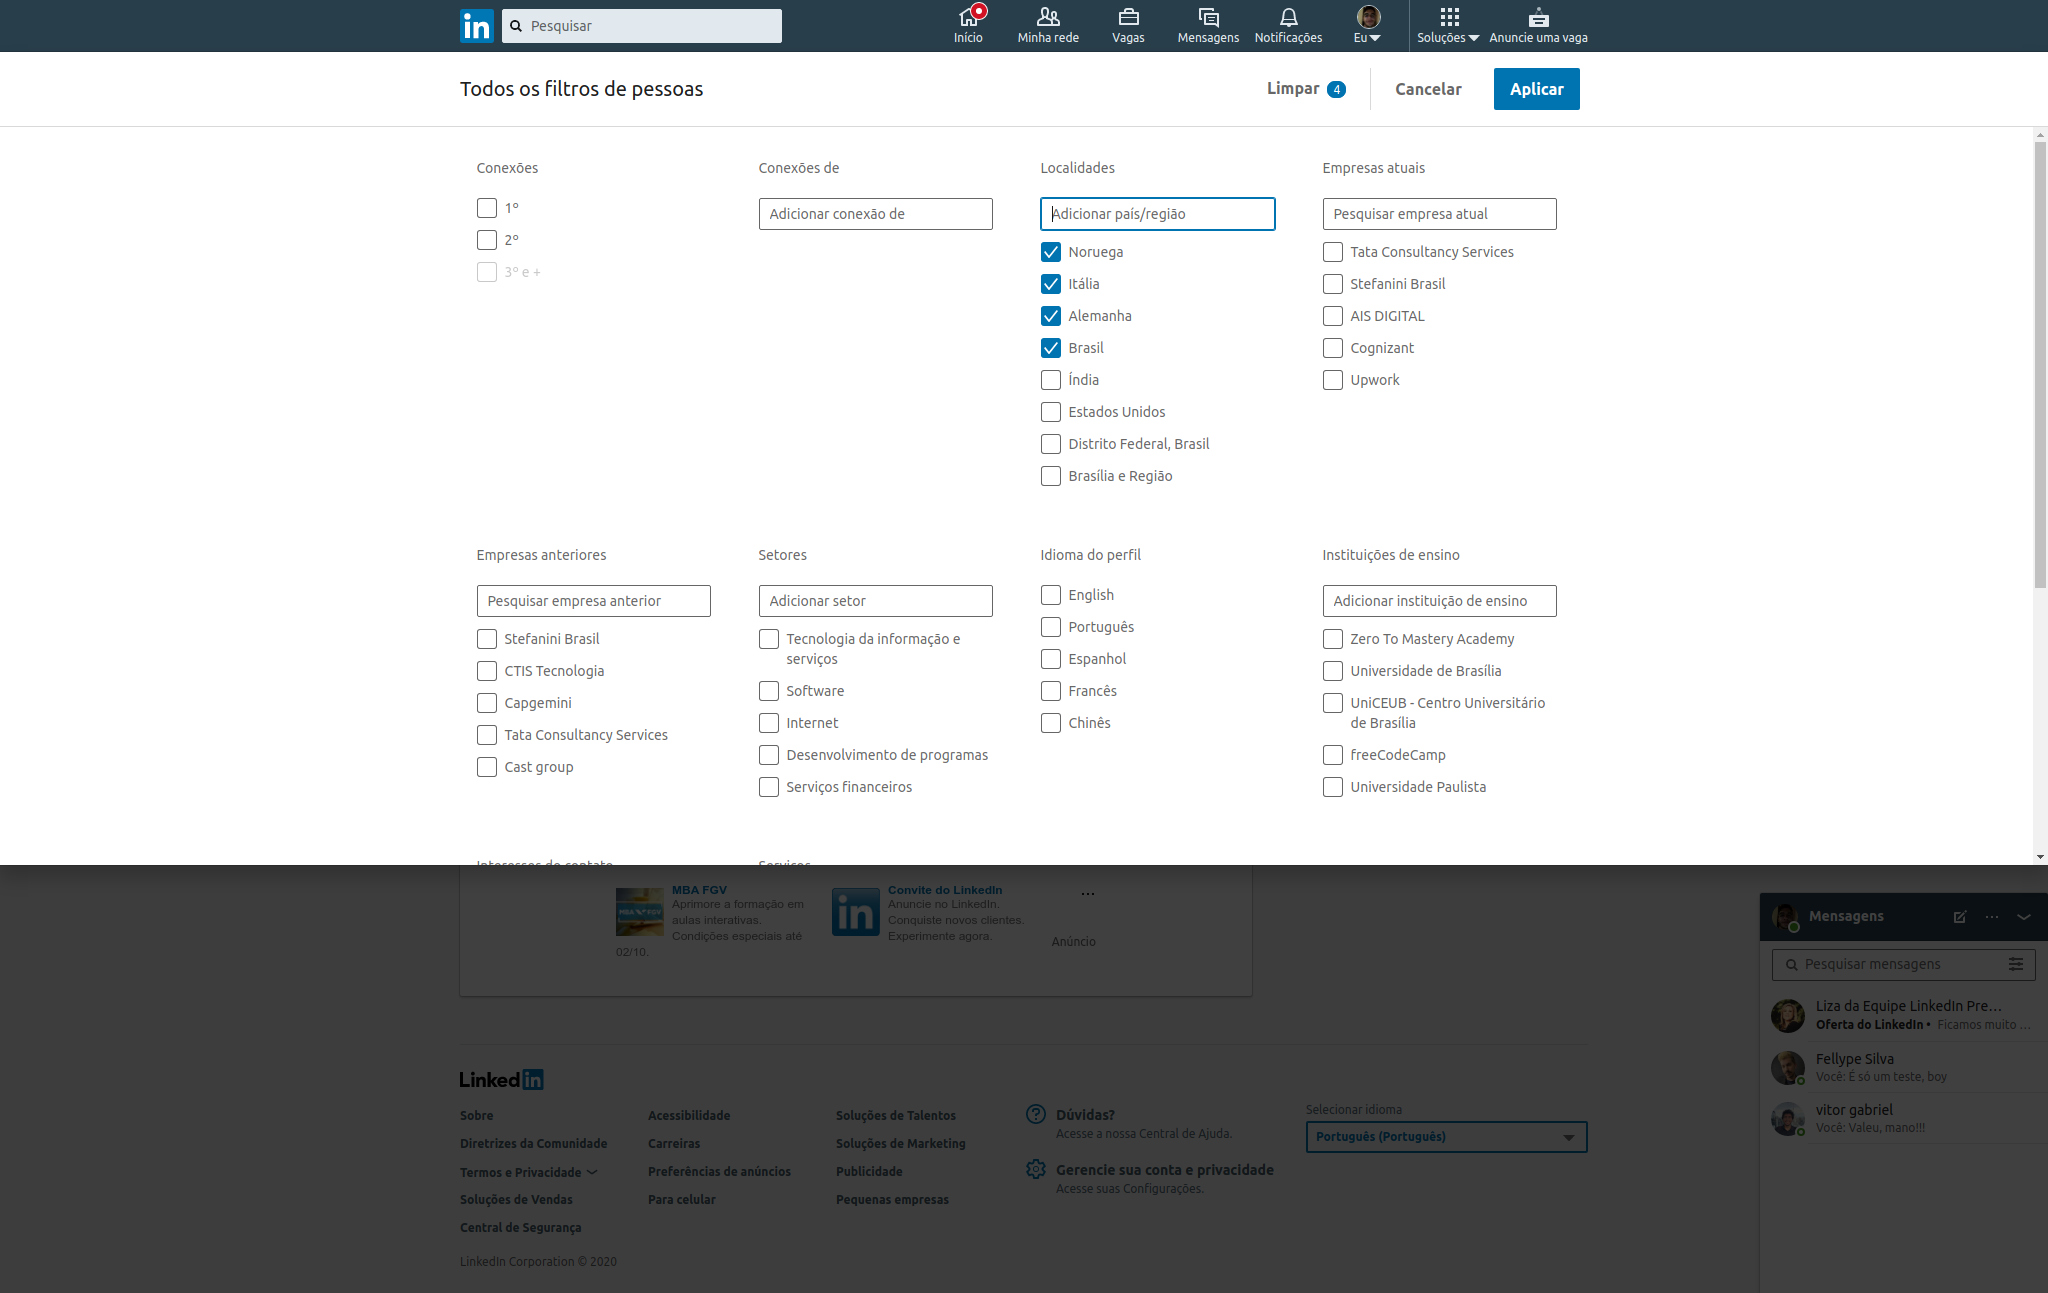
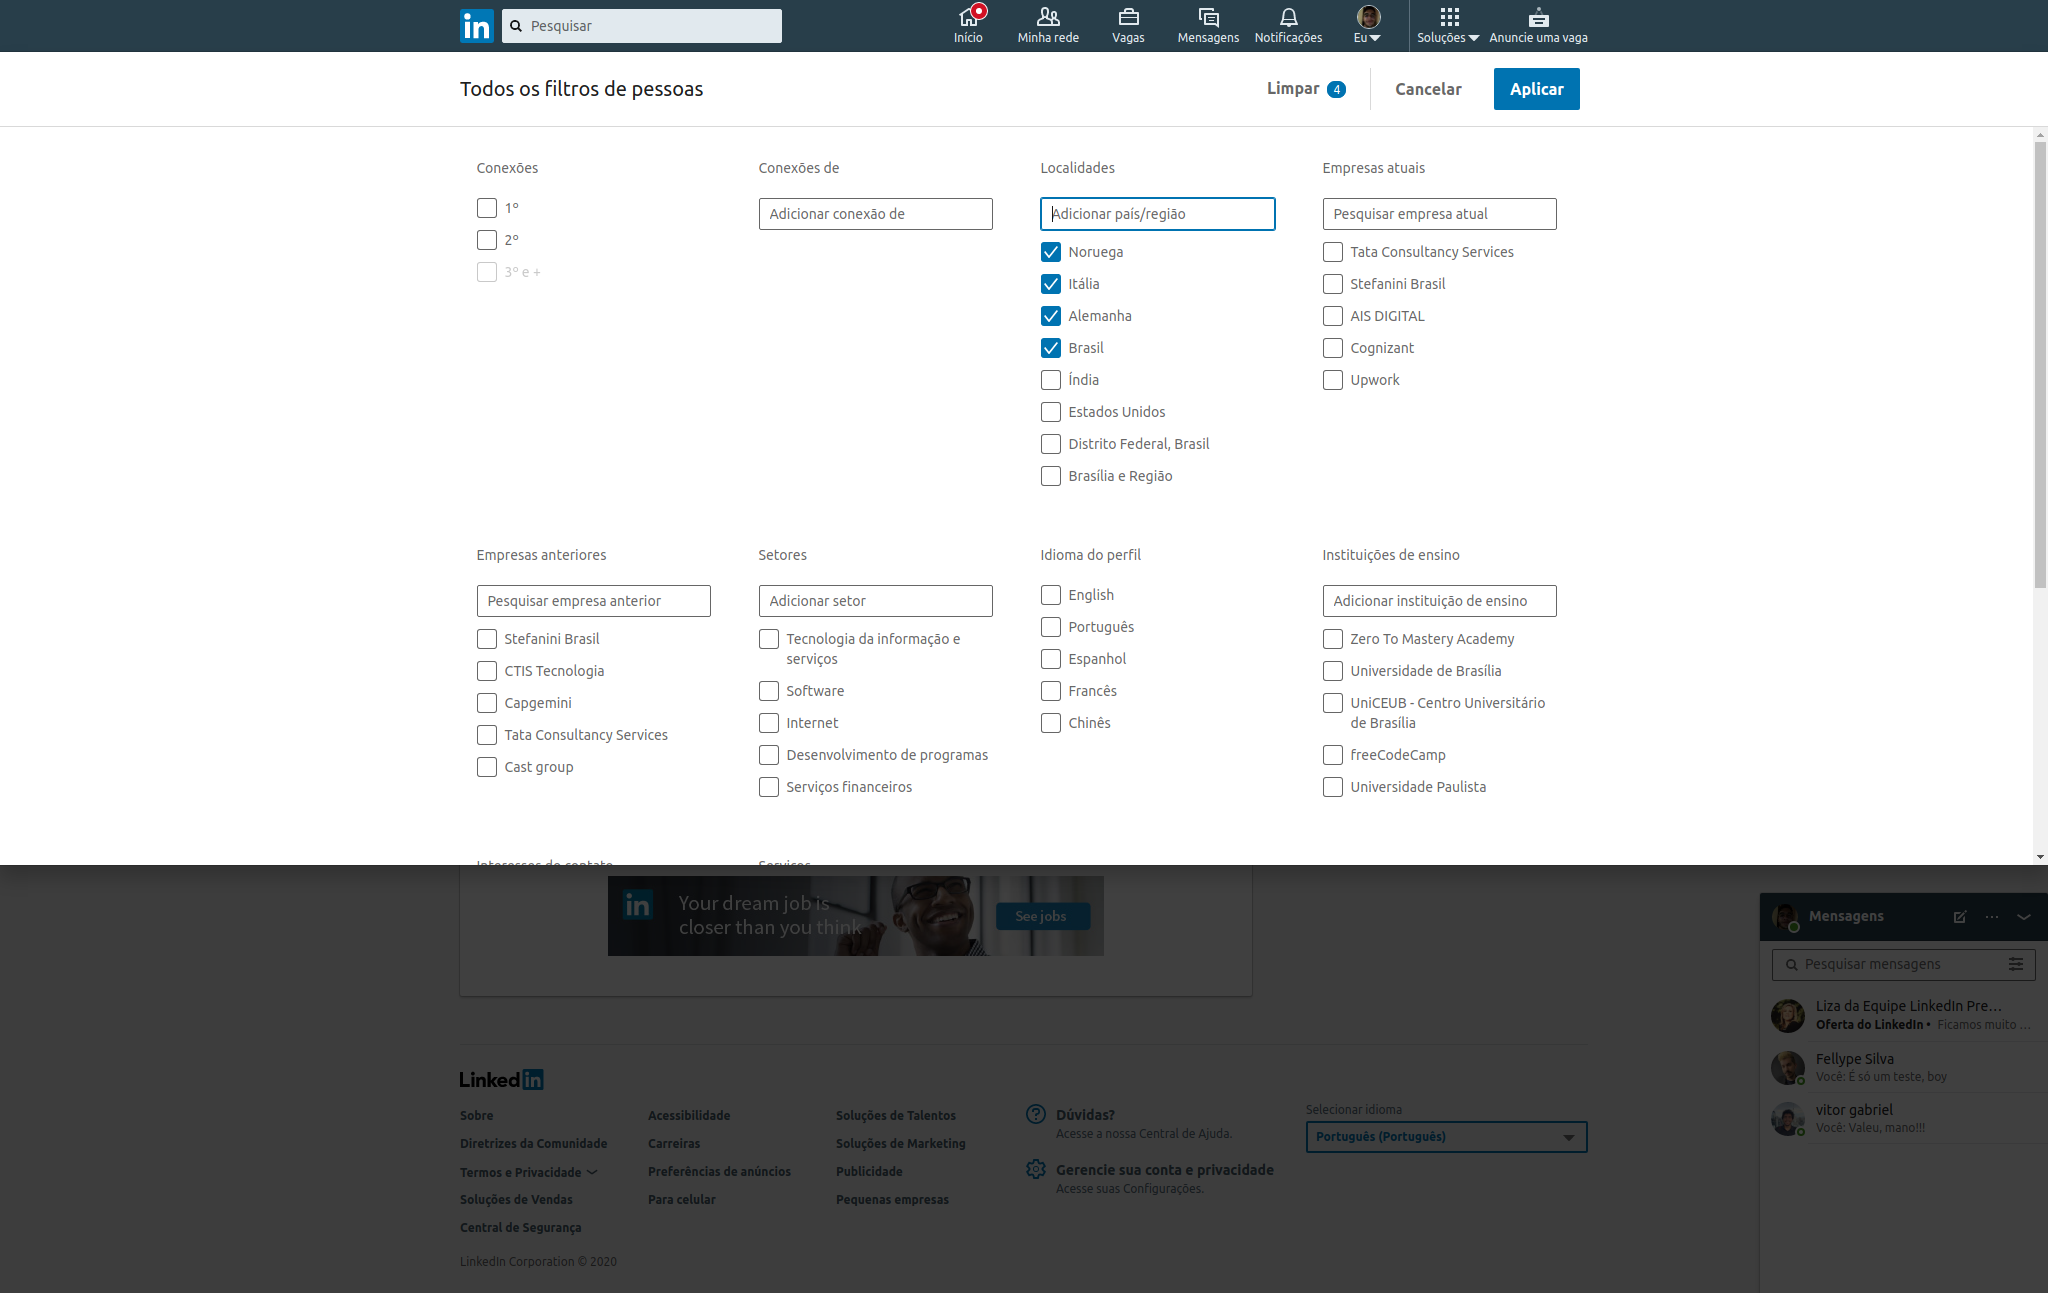
:art: Implementing click in the button apply

Changed region(s): [[0.2812, 0.6806, 0.5312, 0.7425]]

diff --git a/app/services/BotMessagesService.js b/app/services/BotMessagesService.js
@@ -1,7 +1,5 @@
 'use-strict'
 
-// TODO: Why the page is been redirect to sign up?
-
 const puppeteer = require('puppeteer')
 
 module.exports = class BotMessagesService {
@@ -24,7 +22,9 @@ module.exports = class BotMessagesService {
     })
 
     await (await this._nthEmberElement({ n: 61, page })).click()
+
     await page.waitFor(5000)
+
     await this._screenshot({ page, fileName: 'filters' })
 
     await (await this._nthEmberElement({ n: 16, page })).click()
@@ -34,6 +34,11 @@ module.exports = class BotMessagesService {
     await (await this._nthEmberElement({ n: 30, page })).click()
     await this._moreThanOne({ page, array: sectors })
     await this._screenshot({ page, fileName: 'sectors' })
+
+    await page.waitFor(2000)
+
+    await (await this._nthEmberElement({ n: 5, page })).click()
+    await this._screenshot({ page, fileName: 'apply' })
 
     await browser.close()
   }
